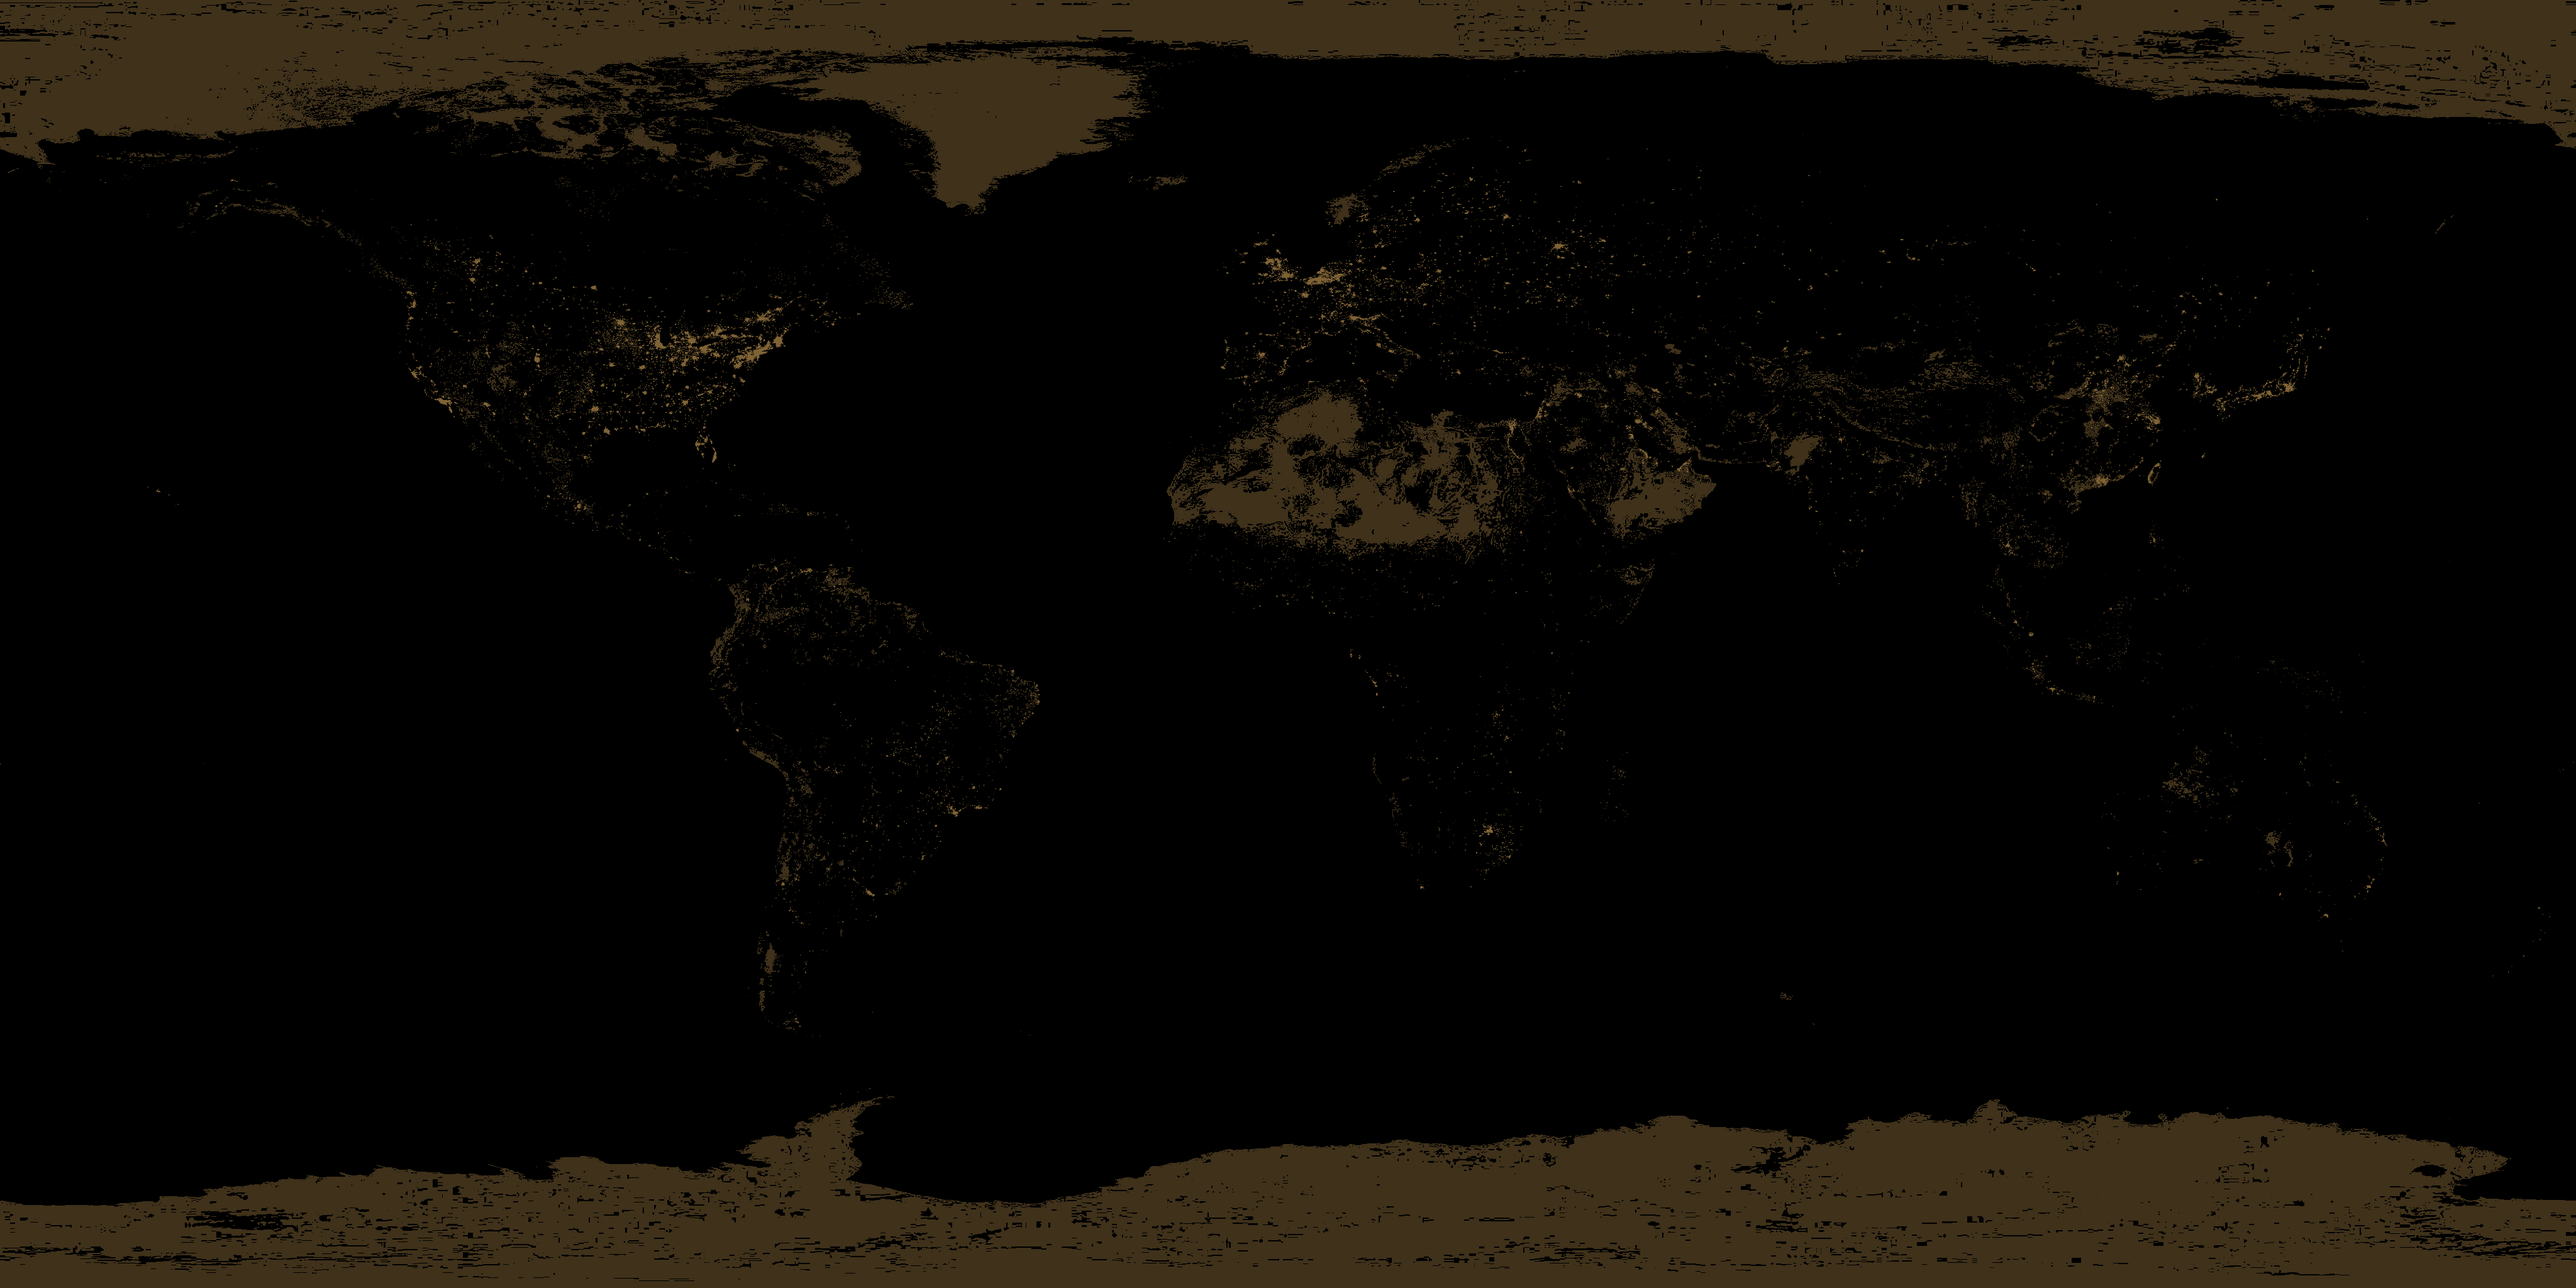
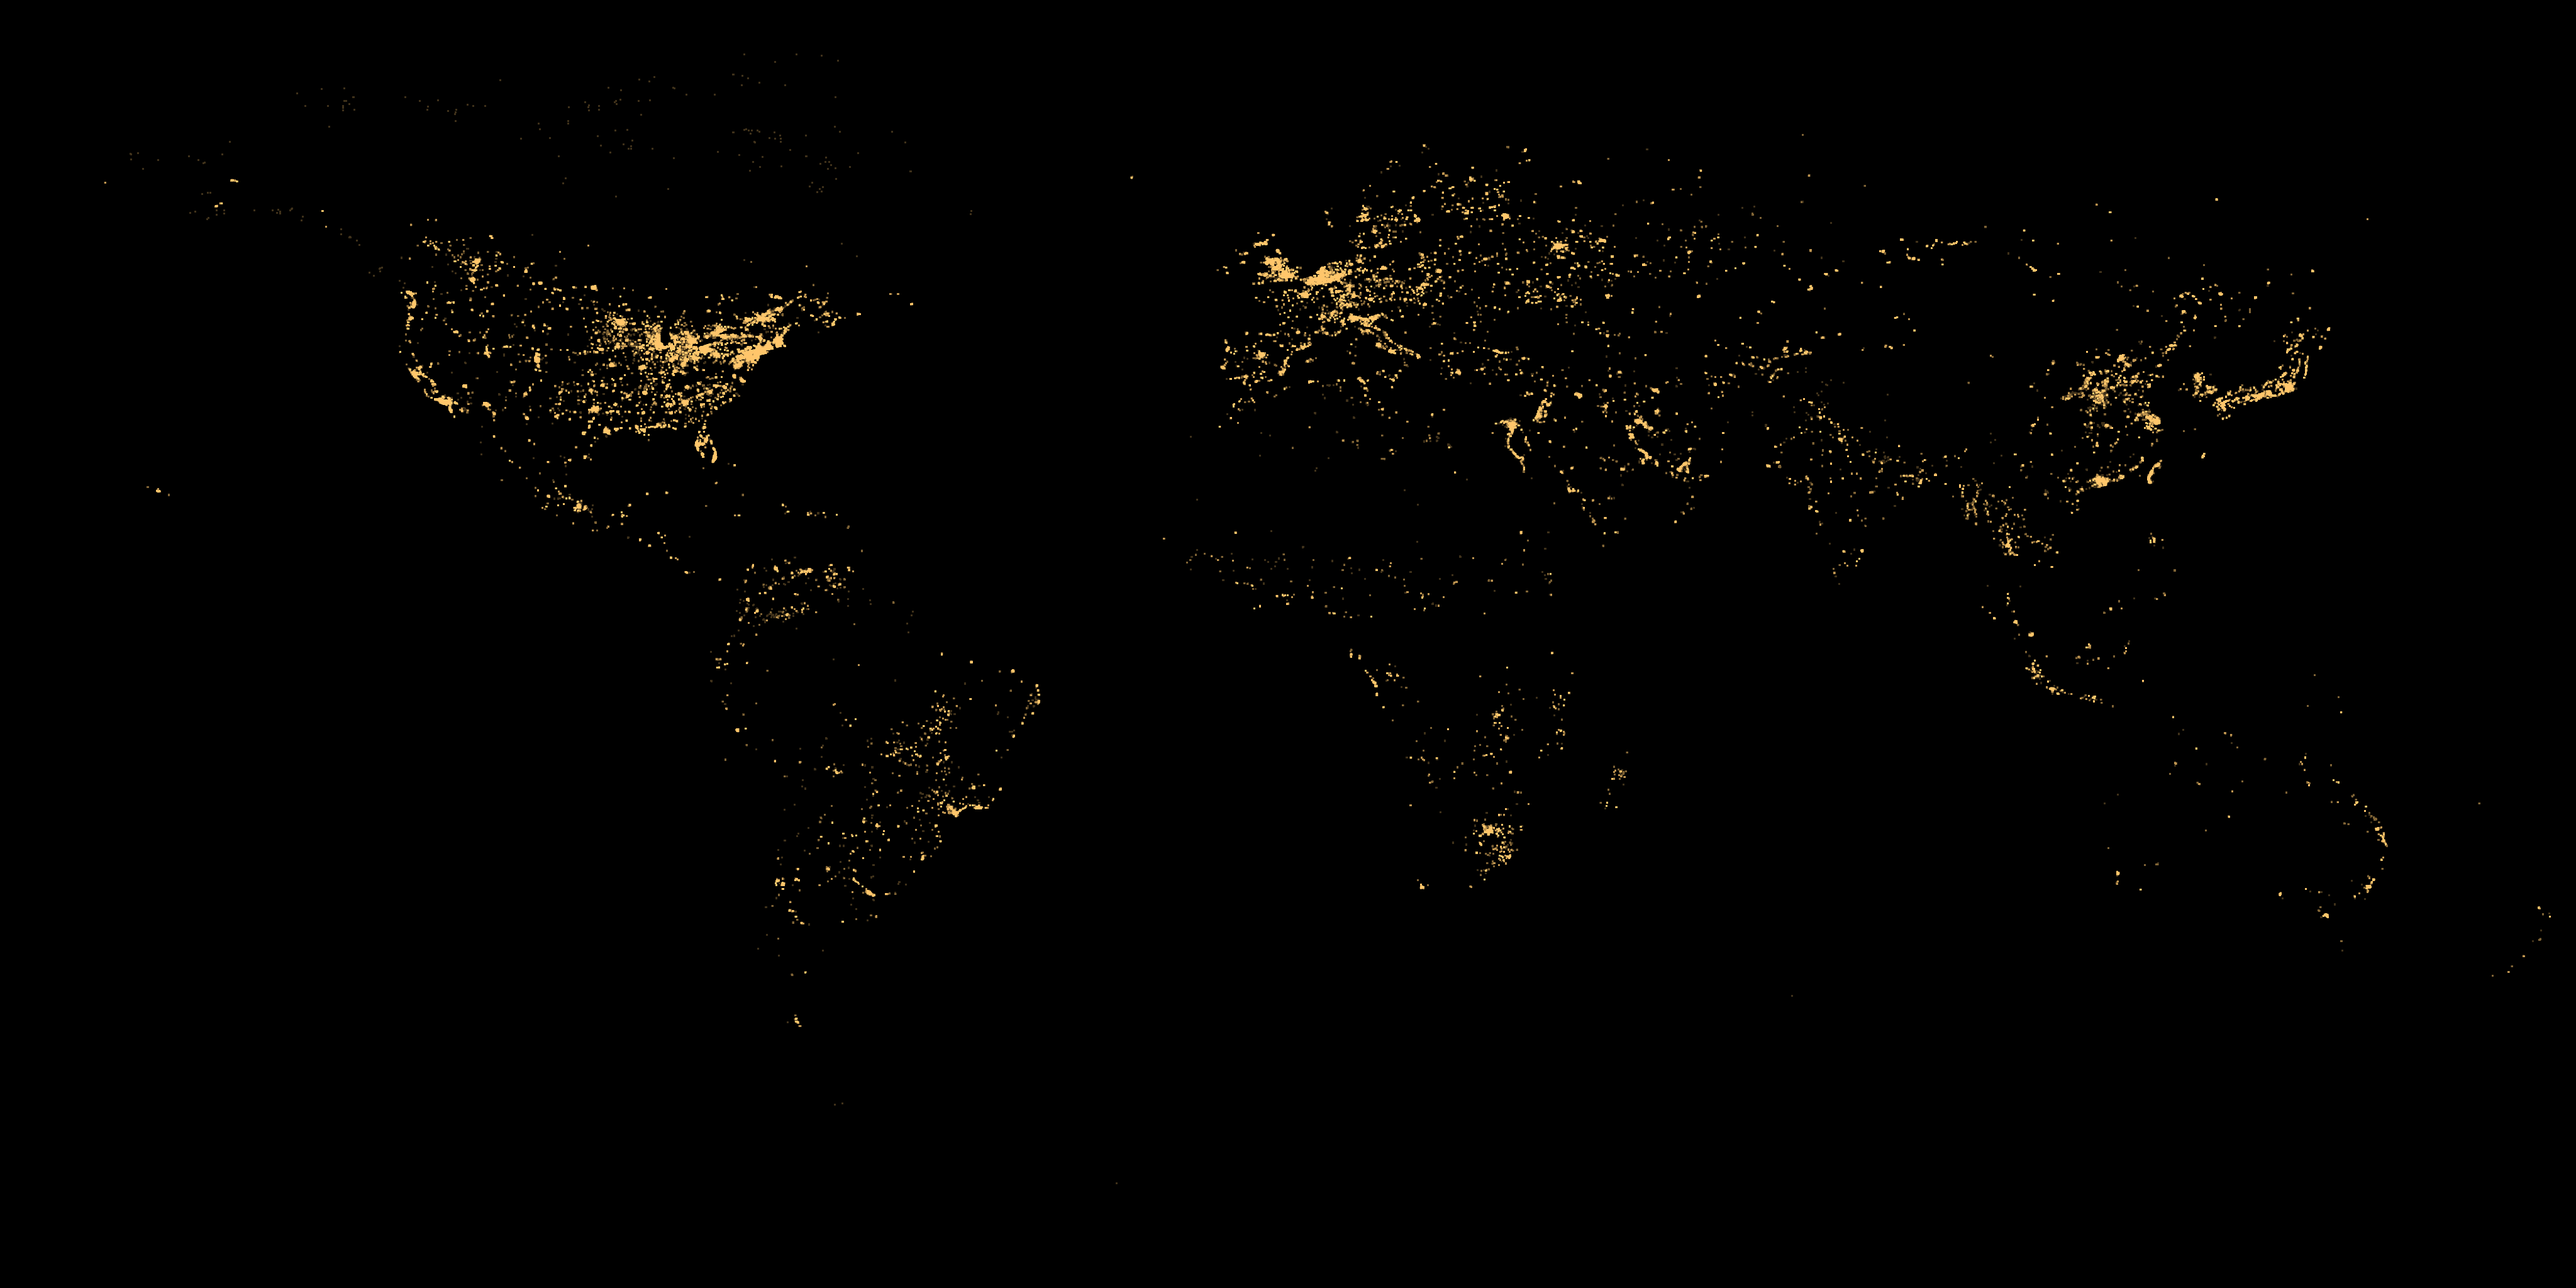
Éjszakai oldal: sötét felszín, élesebb városfények, keskeny alkonysáv; saját ikon (festett földgömb)
Claude-Session: https://claude.ai/code/session_01T6sPwaPiVjASr8DLyjC9bo

diff --git a/AETHER_godot/tools/festett_textura.py b/AETHER_godot/tools/festett_textura.py
@@ -99,7 +99,10 @@ def albedo_and_data(src: Path):
 
 def night(src: Path) -> Image.Image:
     n = load(src, "earth-night.jpg", "L")
-    v = np.clip((n - 0.10) / 0.55, 0, 1)
+    v = np.clip((n - 0.21) / 0.17, 0, 1)   # a holdfényes, halvány földfelszín ne világítson
+    # a földgömb egy képpontja kb. 2-3 textúrapont: a fényeket kicsit „megnöveljük”,
+    # hogy a mintavételezés ne hagyja ki őket (a fényerő marad, csak a pötty nagyobb)
+    v = ndimage.grey_dilation(v, size=(3, 3))
     v = np.round(v * 4) / 4                                         # 4 fényességszint
     col = (NIGHT[None, None] * v[..., None] * 255).astype(np.uint8)
     return Image.fromarray(col, "RGB")
